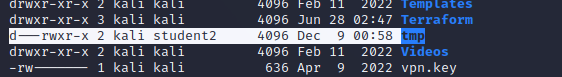
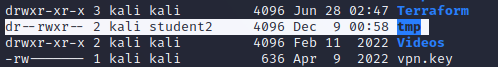
Доработана работа 45

diff --git a/45-linux-README_homework.md b/45-linux-README_homework.md
@@ -35,7 +35,7 @@ sudo useradd student2 -g student2
 sudo chgrp student2 tmp
 chmod g+rwx tmp
 chmod o+r tmp
-chmod u-rwx tmp
+chmod u-wx tmp
 ```
 
 ![](img/45/8-доработанные%20права.png)
